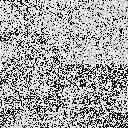
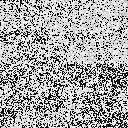
modified:   decrypt.py  	modified:   hilbert.png  	modified:   input.txt  	new file:   output.txt

diff --git a/decrypt.py b/decrypt.py
@@ -5,13 +5,14 @@ import functools
 from PIL import Image
 
 def setup():
-	global img, imgMap, key, keybytes, w, n, l, txtbytes
+	global img, imgMap, key, keybytes, w, n, l, h, txtbytes
 	img = Image.open(sys.argv[1])
 	key = sys.argv[2]
 	keybytes = [ord(x) for x in key]
 	w = len(key)
 	n = img.size[0]
 	l = n*n
+	h = math.ceil(l / w)
 	txtbytes = []
 
 def dehilbert():
@@ -24,9 +25,13 @@ def dehilbert():
 		txtbytes.append(imgMap[x, y][0])
 
 def decrypt():
+	global txtbytes
 	# De-Vigenere Cipher
 	txtbytes = [(txtbytes[i]-keybytes[i%w]) % 256 for i in range(l)]
+
 	# Insert None in right places for reverse columnar transposition
+	rmd = l % w
+	keyMap = sorted([(keybytes[i], i, 1 if i < rmd else 0) for i in range(w)])
 	pos = 0
 	for i in range(w):
 		pos += h-1
